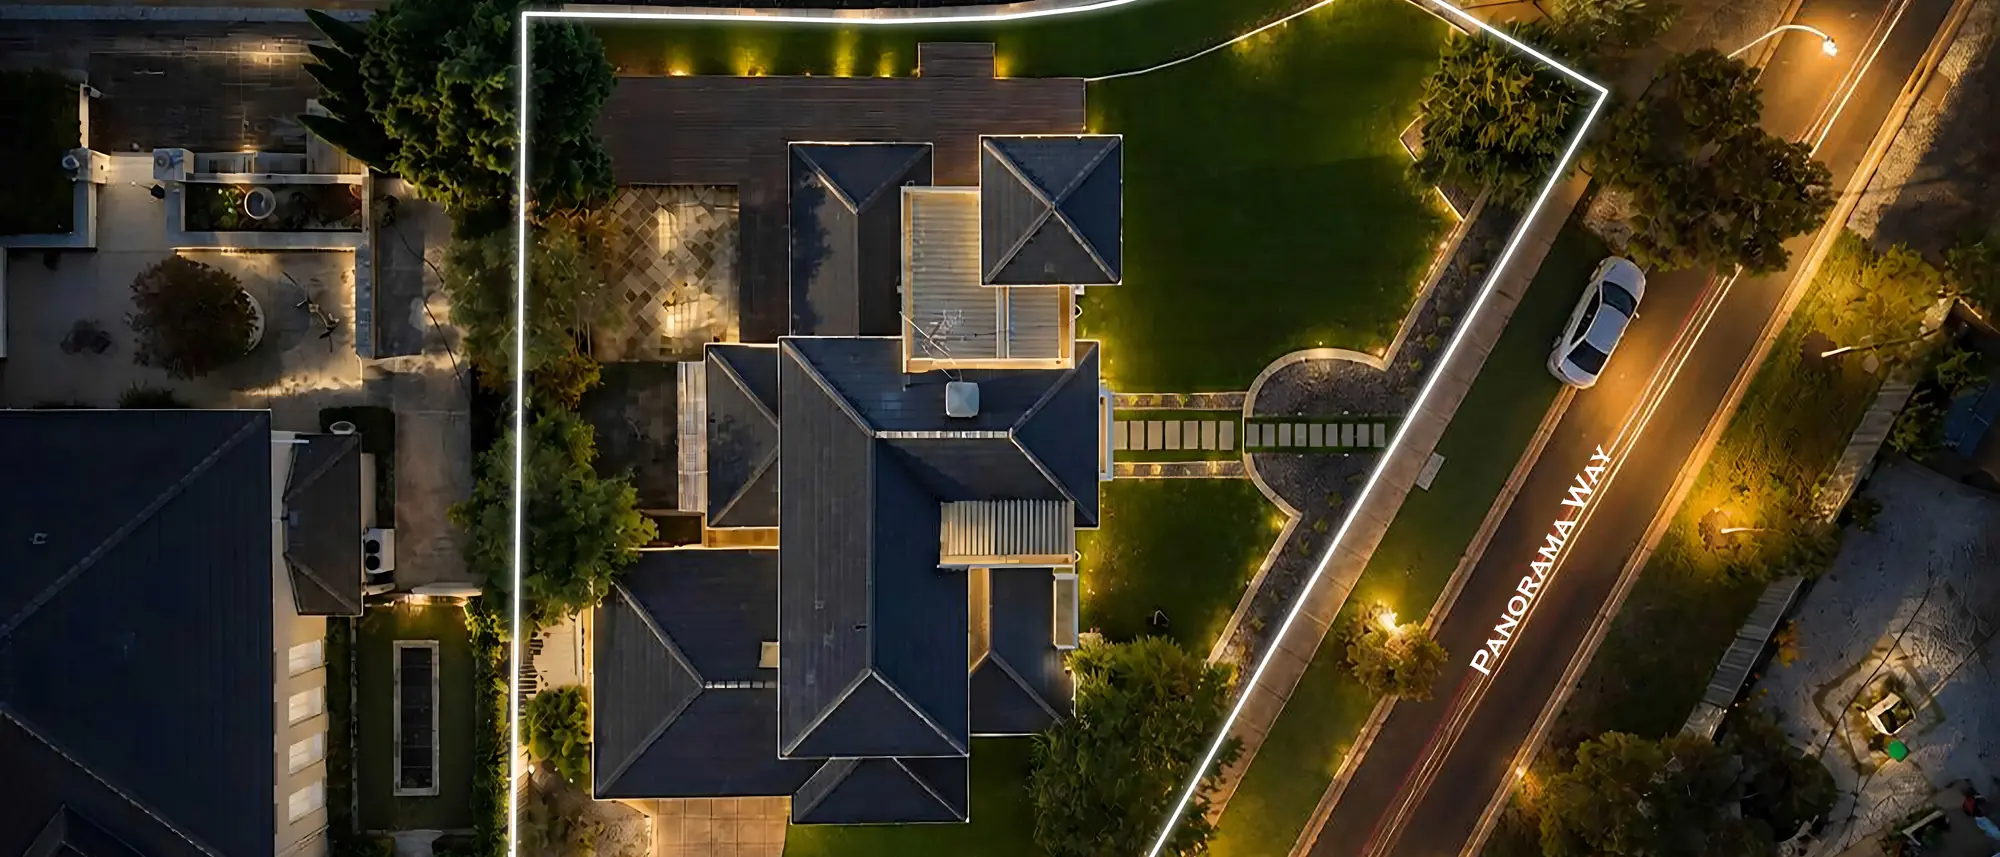
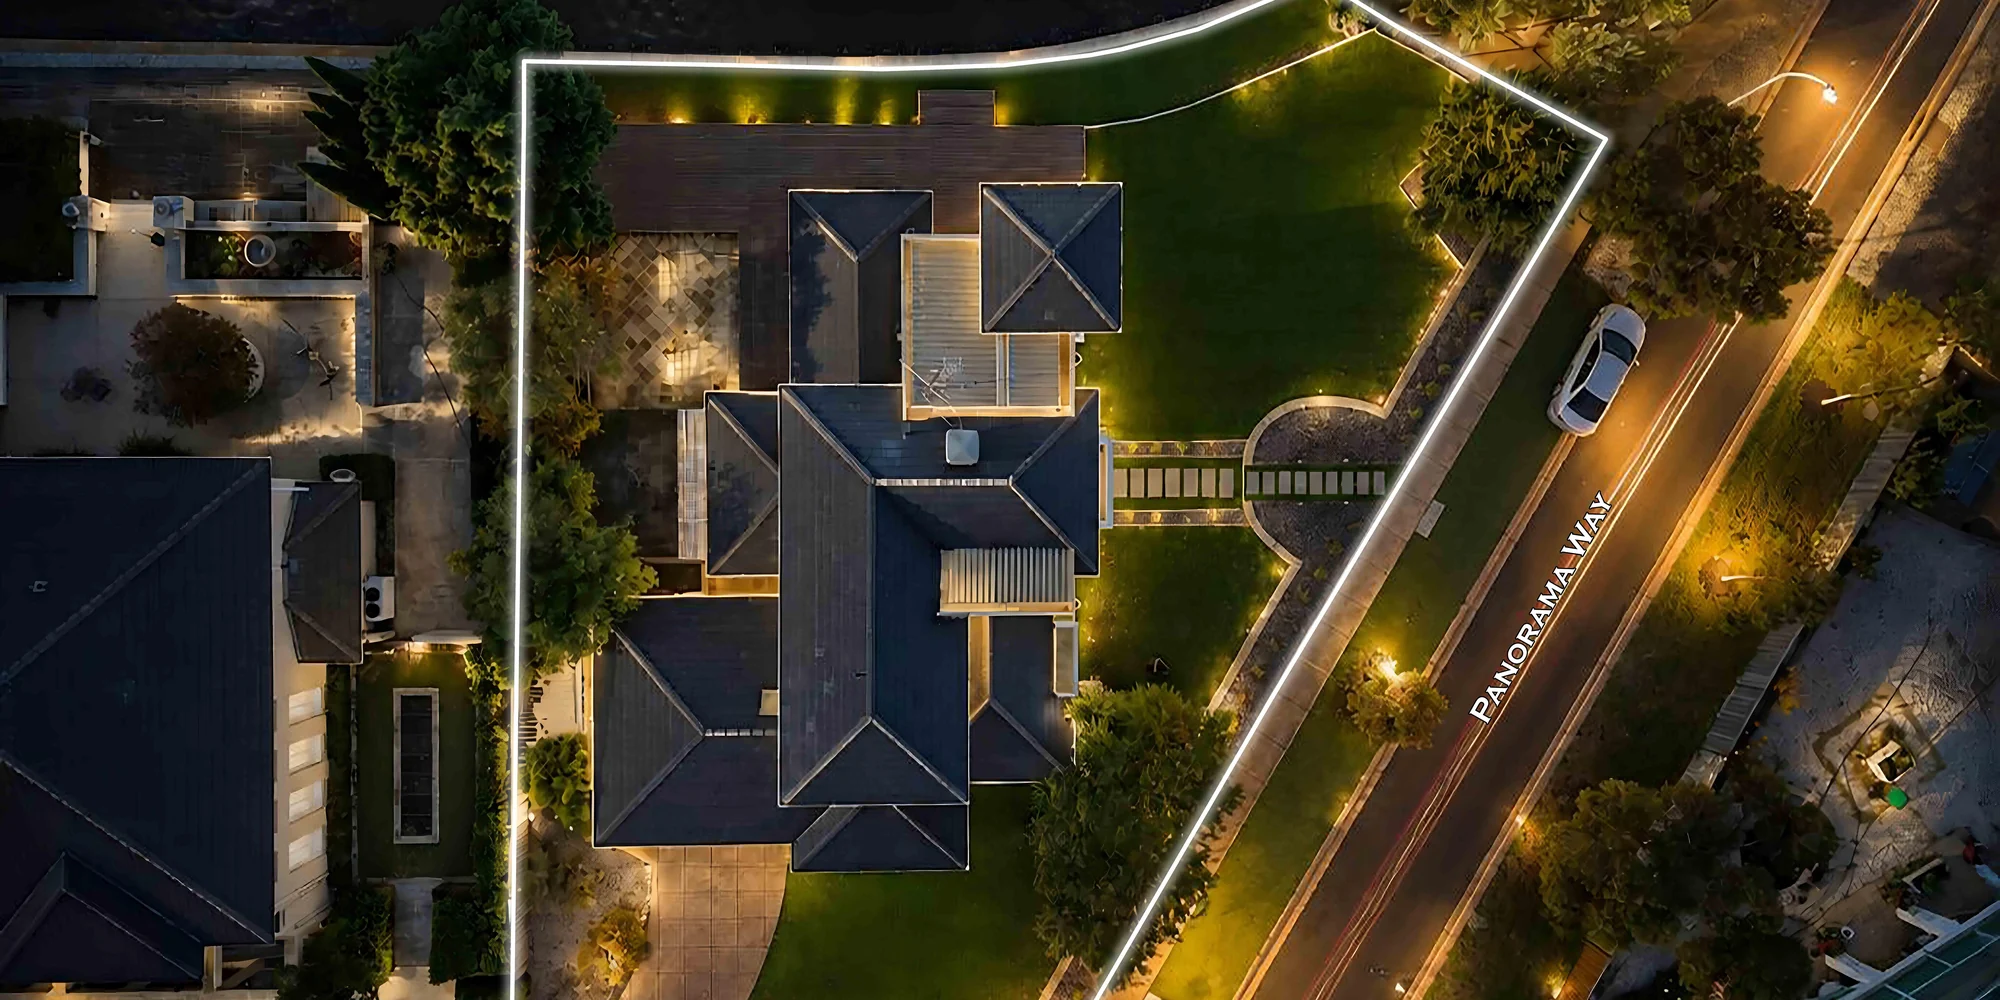
Refresh hero band + showreel; defer GA for faster mobile LCP
- Replace drone-band hero with HD Firefly dusk aerial (previous was blurred)
- Replace showreel with the new multi-property reel: 174MB draft re-encoded to
  19.9 MiB (1080p, kept audio + SIXTH VISION branding), safely under Cloudflare
  Pages' 25 MiB per-file limit
- Update showreel caption to suit the compilation reel
- Defer Google Analytics until after first paint / first interaction so gtag.js
  (164 KiB) no longer competes with the hero on mobile: LCP 7.1s -> 5.4s, no
  visual change

Verified: Lighthouse Accessibility/Best-Practices/SEO 100/100/100, desktop
Performance 95; console clean at 390/768/1024/1440; local tree matched
origin/main before any change.

diff --git a/index.html b/index.html
@@ -79,12 +79,33 @@
 </script>
 
 <!-- Google Analytics 4 -->
-<script async src="https://www.googletagmanager.com/gtag/js?id=G-M6TSWTEBM9"></script>
 <script>
+  /* Google Analytics — config is queued immediately, but the 164 KiB gtag.js
+     is loaded only AFTER first paint (window load + idle) or on first user
+     interaction, whichever comes first. This keeps it off the mobile critical
+     path so it never competes with the hero image for bandwidth. Analytics
+     still fire; nothing visible changes. */
   window.dataLayer = window.dataLayer || [];
   function gtag(){dataLayer.push(arguments);}
   gtag('js', new Date());
   gtag('config', 'G-M6TSWTEBM9');
+  (function () {
+    var done = false;
+    function loadGA(){
+      if (done) return; done = true;
+      var s = document.createElement('script');
+      s.async = true;
+      s.src = 'https://www.googletagmanager.com/gtag/js?id=G-M6TSWTEBM9';
+      document.head.appendChild(s);
+    }
+    function schedule(){ ('requestIdleCallback' in window)
+      ? requestIdleCallback(loadGA, { timeout: 3000 }) : setTimeout(loadGA, 1500); }
+    if (document.readyState === 'complete') schedule();
+    else window.addEventListener('load', schedule, { once: true });
+    ['scroll','pointerdown','keydown','touchstart'].forEach(function(e){
+      window.addEventListener(e, loadGA, { once: true, passive: true });
+    });
+  })();
 </script>
 </head>
 <body>
@@ -343,7 +364,7 @@
           </span>
         </button>
       </div>
-      <p class="showreel-caption">63 French Road, Greenvale &mdash; filmed and edited by Sixth Vision.</p>
+      <p class="showreel-caption">A selection of recent Melbourne listings &mdash; filmed and edited by Sixth Vision.</p>
     </div>
   </section>
 
@@ -449,8 +470,8 @@
   <section class="drone-band" aria-label="Aerial photography">
     <img src="assets/img/drone-band-2000.webp"
          srcset="assets/img/drone-band-1000.webp 1000w, assets/img/drone-band-2000.webp 2000w"
-         sizes="100vw" width="2000" height="857" loading="lazy" decoding="async" data-parallax
-         alt="Night aerial photograph of a Melbourne property, streetlights tracing the block below">
+         sizes="100vw" width="2000" height="1000" loading="lazy" decoding="async" data-parallax
+         alt="Dusk aerial photograph of a Melbourne home, its grounds and boundary traced in light from four hundred feet">
     <div class="band-caption">
       <div class="container">
         <span class="eyebrow">From above</span>